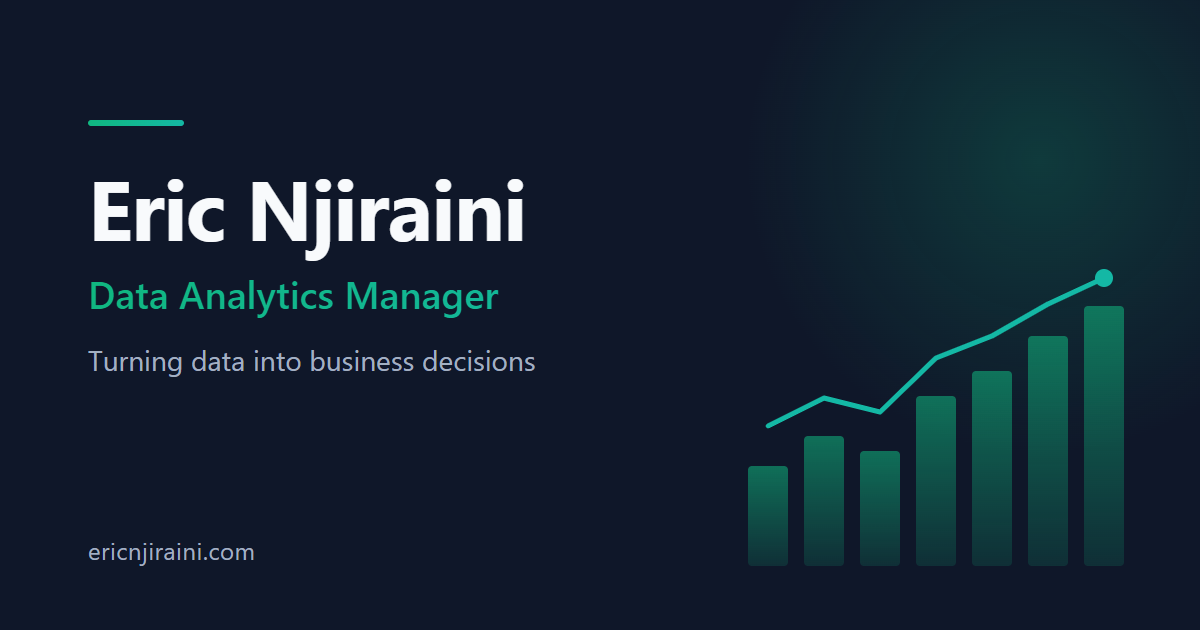
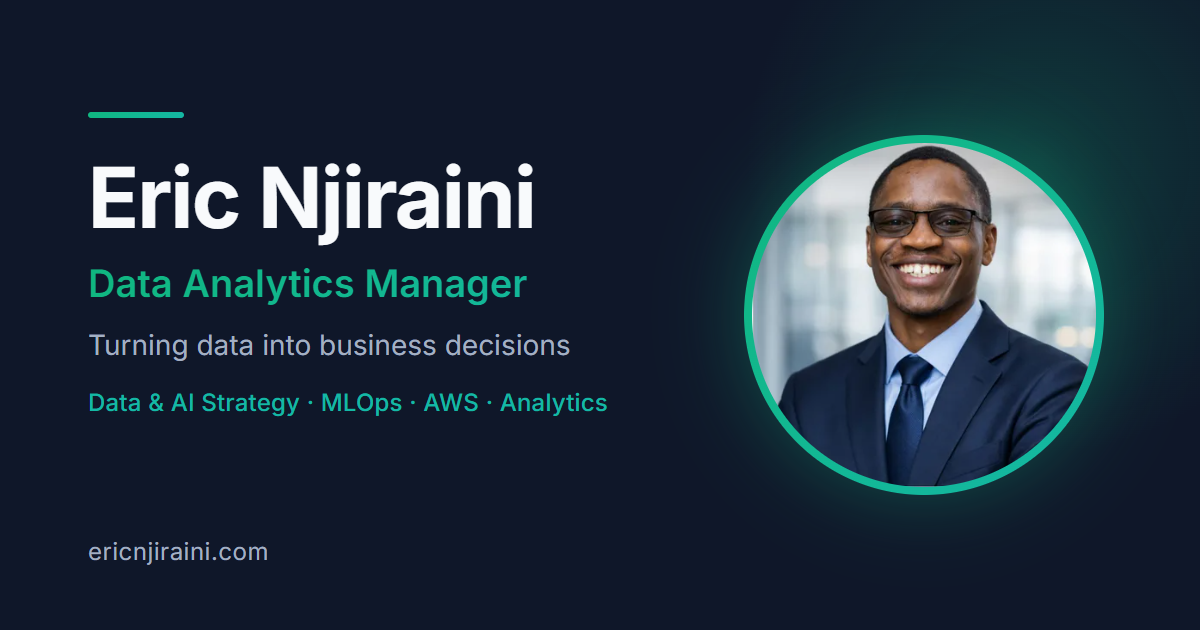
Prerender HTML, add headshot, accessible colours and Inter font
SEO & speed
- Prerender the page to static HTML at build time (entry-server +
  scripts/prerender.mjs) so non-JS crawlers see the content and the
  first screen paints before JavaScript loads; client hydrates it
- Real 404 status for unknown URLs (prerendered 404.html, no catch-all)
- Name in <title>, H1 and social titles; JSON-LD image is the headshot
- Hero background JPG (214KB) -> WebP (38KB)

Look & feel
- Headshot in the hero and in the link-preview image
- Primary emerald darkened to pass WCAG AA (5.0:1 on white)
- Self-hosted Inter variable font (CSP blocks external font hosts)
- Static "Hire Me" button; remove scroll arrow that overlapped socials
- Restyle the 404 page

diff --git a/src/components/Hero.tsx b/src/components/Hero.tsx
@@ -1,6 +1,6 @@
-import { ArrowDown, Download, Github, Linkedin, Mail, MapPin } from 'lucide-react';
+import { Download, Github, Linkedin, Mail } from 'lucide-react';
 import { Button } from '@/components/ui/button';
-import heroImage from '@/assets/hero-bg.jpg';
+import heroImage from '@/assets/hero-bg.webp';
 import { profile, scrollToSection } from '@/lib/profile';
 
 // Capabilities only; individual tools live in the Skills section.
@@ -17,25 +17,30 @@ const Hero = () => {
       />
       <div className="absolute inset-0 bg-gradient-primary opacity-5" />
 
-      <div className="relative z-10 container mx-auto px-5 sm:px-6 pt-24 pb-16 md:pt-28 text-center">
+      <div className="relative z-10 container mx-auto px-5 sm:px-6 pt-20 sm:pt-24 pb-16 md:pt-28 text-center">
         <div className="animate-fade-in max-w-4xl mx-auto">
 
-          {/* Name + location */}
-          <p className="inline-flex flex-wrap items-center justify-center gap-x-2 gap-y-1 text-sm sm:text-base font-medium text-foreground/80 mb-4">
-            <span className="font-semibold text-foreground">{profile.name}</span>
-            <span aria-hidden="true" className="text-primary">•</span>
-            <span className="inline-flex items-center gap-1">
-              <MapPin className="w-4 h-4 text-primary" aria-hidden="true" />
-              {profile.location}
-            </span>
-          </p>
+          {/* Headshot (also referenced by the JSON-LD in index.html) */}
+          <img
+            src="/eric-njiraini.webp"
+            alt={profile.name}
+            width={400}
+            height={400}
+            className="mx-auto mb-5 h-28 w-28 sm:h-36 sm:w-36 rounded-full object-cover ring-4 ring-primary/20 shadow-elegant"
+          />
 
-          {/* SEO PRIMARY H1 */}
-          <h1 className="text-4xl sm:text-6xl md:text-7xl font-bold mb-5 bg-gradient-primary bg-clip-text text-transparent leading-tight pb-2">
-            Data Analytics Manager
+          {/* SEO PRIMARY H1: name + role */}
+          <h1 className="mb-5">
+            <span className="block text-lg sm:text-2xl font-semibold text-foreground mb-2">
+              {profile.name}
+            </span>
+            <span className="sr-only">, </span>
+            <span className="block text-4xl sm:text-6xl md:text-7xl font-bold bg-gradient-primary bg-clip-text text-transparent leading-tight pb-2">
+              Data Analytics Manager
+            </span>
           </h1>
 
-          {/* Supporting SEO line */}
+          {/* Supporting line */}
           <p className="text-xl sm:text-2xl md:text-3xl font-semibold text-foreground mb-6">
             Turning data into business decisions
           </p>
@@ -54,10 +59,10 @@ const Hero = () => {
 
           {/* Value proposition */}
           <p className="text-base sm:text-lg md:text-xl text-muted-foreground max-w-2xl mx-auto mb-10 leading-relaxed">
-            I lead analytics and drive data and AI strategy at Burn Manufacturing, a clean cookstove
-            maker and carbon developer in 10+ African countries. I set the data strategy that took our
-            platform to AWS, and today I put ML models into production, keep data costs lean, and build
-            the team and dashboards leadership relies on.
+            Based in Nairobi, I lead analytics and drive data and AI strategy at Burn Manufacturing, a
+            clean cookstove maker and carbon developer in 10+ African countries. I set the data strategy
+            that took our platform to AWS, and today I put ML models into production, keep data costs
+            lean, and build the team and dashboards leadership relies on.
           </p>
 
           {/* CTA */}
@@ -103,19 +108,6 @@ const Hero = () => {
             </Button>
           </div>
         </div>
-      </div>
-
-      {/* Scroll Indicator (desktop only; on phones it collides with the content) */}
-      <div className="hidden md:block absolute bottom-8 left-1/2 -translate-x-1/2 animate-bounce">
-        <Button
-          variant="ghost"
-          size="icon"
-          onClick={() => scrollToSection('about')}
-          className="hover:text-primary"
-          aria-label="Scroll to About"
-        >
-          <ArrowDown className="!size-6" />
-        </Button>
       </div>
     </section>
   );

diff --git a/scripts/og-image.html b/scripts/og-image.html
@@ -7,6 +7,7 @@
 <html lang="en">
 <head>
 <meta charset="utf-8" />
+<link rel="stylesheet" href="../node_modules/@fontsource-variable/inter/index.css" />
 <style>
   :root {
     --bg: hsl(222 47% 11%);
@@ -20,22 +21,28 @@
   body {
     background: var(--bg);
     color: var(--fg);
-    font-family: "Segoe UI", system-ui, -apple-system, sans-serif;
+    font-family: "Inter Variable", "Segoe UI", system-ui, sans-serif;
     position: relative;
   }
   .glow {
     position: absolute; right: -160px; top: -160px; width: 640px; height: 640px;
     border-radius: 50%; background: radial-gradient(circle, hsl(160 84% 39% / 0.22), transparent 65%);
   }
-  .content { position: absolute; left: 88px; top: 120px; width: 640px; }
+  .content { position: absolute; left: 88px; top: 112px; width: 640px; }
   .rule { width: 96px; height: 6px; border-radius: 3px; background: linear-gradient(135deg, var(--primary), var(--primary-glow)); margin-bottom: 36px; }
   h1 { font-size: 84px; font-weight: 700; letter-spacing: -1.5px; line-height: 1.05; }
   .role { font-size: 38px; font-weight: 600; margin-top: 18px;
     background: linear-gradient(135deg, var(--primary), var(--primary-glow));
     -webkit-background-clip: text; background-clip: text; color: transparent; }
   .tagline { font-size: 28px; color: var(--muted); margin-top: 22px; }
+  .focus { font-size: 24px; font-weight: 500; color: var(--primary-glow); margin-top: 26px; letter-spacing: 0.2px; }
   .domain { position: absolute; left: 88px; bottom: 64px; font-size: 24px; color: var(--muted); letter-spacing: 0.5px; }
-  svg { position: absolute; right: 72px; bottom: 64px; }
+  .photo {
+    position: absolute; right: 96px; top: 135px; width: 360px; height: 360px; border-radius: 50%;
+    padding: 8px; background: linear-gradient(135deg, var(--primary), var(--primary-glow));
+    box-shadow: 0 0 80px hsl(160 84% 39% / 0.35);
+  }
+  .photo img { width: 100%; height: 100%; border-radius: 50%; object-fit: cover; display: block; }
 </style>
 </head>
 <body>
@@ -45,28 +52,9 @@
     <h1>Eric Njiraini</h1>
     <div class="role">Data Analytics Manager</div>
     <div class="tagline">Turning data into business decisions</div>
+    <div class="focus">Data &amp; AI Strategy · MLOps · AWS · Analytics</div>
   </div>
   <div class="domain">ericnjiraini.com</div>
-
-  <svg width="380" height="300" viewBox="0 0 380 300" aria-hidden="true">
-    <defs>
-      <linearGradient id="bar" x1="0" y1="1" x2="0" y2="0">
-        <stop offset="0%" stop-color="hsl(160 84% 39%)" stop-opacity="0.15" />
-        <stop offset="100%" stop-color="hsl(160 84% 39%)" stop-opacity="0.55" />
-      </linearGradient>
-    </defs>
-    <g fill="url(#bar)">
-      <rect x="0"   y="200" width="40" height="100" rx="4" />
-      <rect x="56"  y="170" width="40" height="130" rx="4" />
-      <rect x="112" y="185" width="40" height="115" rx="4" />
-      <rect x="168" y="130" width="40" height="170" rx="4" />
-      <rect x="224" y="105" width="40" height="195" rx="4" />
-      <rect x="280" y="70"  width="40" height="230" rx="4" />
-      <rect x="336" y="40"  width="40" height="260" rx="4" />
-    </g>
-    <polyline points="20,160 76,132 132,146 188,92 244,70 300,38 356,12"
-      fill="none" stroke="hsl(173 80% 40%)" stroke-width="5" stroke-linecap="round" stroke-linejoin="round" />
-    <circle cx="356" cy="12" r="9" fill="hsl(173 80% 40%)" />
-  </svg>
+  <div class="photo"><img src="../public/eric-njiraini.webp" alt="" /></div>
 </body>
 </html>

diff --git a/index.html b/index.html
@@ -6,7 +6,8 @@
     <link rel="icon" href="/EN_favicon_initials.ico" />
     <meta name="viewport" content="width=device-width, initial-scale=1.0, viewport-fit=cover" />
     <meta name="theme-color" content="#f8fafc" />
-    <title>Data Analytics Manager | Data & AI Strategy, MLOps, AWS & Power BI</title>
+    <link rel="preload" as="image" href="/eric-njiraini.webp" />
+    <title>Eric Njiraini — Data Analytics Manager | Data &amp; AI Strategy, MLOps, AWS</title>
     <meta name="description" content="Data Analytics Manager in Nairobi: data and AI strategy, MLOps, AWS cloud migration, cost optimisation, and the dashboards and teams that drive decisions." />
     <meta name="author" content="Eric Njiraini" />
     
@@ -19,7 +20,7 @@
 
     <link rel="canonical" href="https://ericnjiraini.com/" />
 
-    <meta property="og:title" content="Eric Njiraini Portfolio" />
+    <meta property="og:title" content="Eric Njiraini — Data Analytics Manager" />
     <meta property="og:description" content="Data &amp; AI strategy, MLOps, AWS cloud migration and executive analytics: projects and case studies by Eric Njiraini." />
     <meta property="og:type" content="website" />
     <meta property="og:url" content="https://ericnjiraini.com/" />
@@ -29,7 +30,7 @@
     <meta property="og:image:alt" content="Eric Njiraini — Data Analytics Manager" />
 
     <meta name="twitter:card" content="summary_large_image" />
-    <meta name="twitter:title" content="Eric Njiraini Portfolio" />
+    <meta name="twitter:title" content="Eric Njiraini — Data Analytics Manager" />
     <meta name="twitter:description" content="Data &amp; AI strategy, MLOps, AWS cloud migration and executive analytics: projects and case studies by Eric Njiraini." />
     <meta name="twitter:image" content="https://ericnjiraini.com/og-image.png" />
 
@@ -39,7 +40,7 @@
         "@type": "Person",
         "name": "Eric Njiraini",
         "url": "https://ericnjiraini.com/",
-        "image": "https://ericnjiraini.com/og-image.png",
+        "image": "https://ericnjiraini.com/eric-njiraini.webp",
         "sameAs": [
           "https://www.linkedin.com/in/eric-njiraini/",
           "https://github.com/EricNjiraini"

diff --git a/src/components/About.tsx b/src/components/About.tsx
@@ -2,7 +2,7 @@ import { motion, useScroll, useTransform, type Variants } from "framer-motion";
 import { Sparkles, Cpu, CloudUpload, PiggyBank, Users, LayoutDashboard } from 'lucide-react';
 import { Card, CardContent } from '@/components/ui/card';
 import CountUp from 'react-countup';
-import { useRef } from "react";
+import { useEffect, useRef, useState } from "react";
 
 const containerVariants: Variants = {
   hidden: { opacity: 0 },
@@ -80,6 +80,11 @@ const About = () => {
   });
 
   const backgroundY = useTransform(scrollYProgress, [0, 1], ["0%", "20%"]);
+
+  // The prerendered HTML shows the real figures (so crawlers don't read "0");
+  // the count-up animation only takes over once the page is running in a browser.
+  const [mounted, setMounted] = useState(false);
+  useEffect(() => setMounted(true), []);
 
   return (
     <section ref={sectionRef} id="about" className="py-16 md:py-24 bg-background relative overflow-hidden">
@@ -203,7 +208,11 @@ const About = () => {
               <dt className="text-muted-foreground text-xs sm:text-sm leading-snug">{stat.label}</dt>
               <dd className="text-3xl sm:text-4xl font-bold text-primary mb-1">
                 {stat.prefix}
-                <CountUp end={stat.value} duration={2.5} enableScrollSpy scrollSpyOnce />
+                {mounted ? (
+                  <CountUp end={stat.value} duration={2.5} enableScrollSpy scrollSpyOnce />
+                ) : (
+                  stat.value
+                )}
                 {stat.suffix}
               </dd>
             </motion.div>

diff --git a/src/pages/NotFound.tsx b/src/pages/NotFound.tsx
@@ -1,5 +1,6 @@
 import { useLocation } from "react-router-dom";
 import { useEffect } from "react";
+import { Button } from "@/components/ui/button";
 
 const NotFound = () => {
   const location = useLocation();
@@ -12,15 +13,16 @@ const NotFound = () => {
   }, [location.pathname]);
 
   return (
-    <div className="min-h-screen flex items-center justify-center bg-gray-100">
+    <main className="min-h-screen flex items-center justify-center bg-gradient-subtle px-5">
       <div className="text-center">
-        <h1 className="text-4xl font-bold mb-4">404</h1>
-        <p className="text-xl text-gray-600 mb-4">Oops! Page not found</p>
-        <a href="/" className="text-blue-500 hover:text-blue-700 underline">
-          Return to Home
-        </a>
+        <p className="text-6xl font-bold bg-gradient-primary bg-clip-text text-transparent mb-4">404</p>
+        <h1 className="text-2xl font-semibold text-foreground mb-2">Page not found</h1>
+        <p className="text-muted-foreground mb-8">The page you're looking for doesn't exist or has moved.</p>
+        <Button asChild size="lg">
+          <a href="/">Back to ericnjiraini.com</a>
+        </Button>
       </div>
-    </div>
+    </main>
   );
 };
 

diff --git a/src/index.css b/src/index.css
@@ -17,10 +17,11 @@ All colors MUST be HSL.
   --popover: 220 35% 16%;
   --popover-foreground: 210 40% 98%;
 
-  --primary: 160 84% 39%;
+  /* Deep emerald: 5.0:1 against white, so it passes WCAG AA for text and button labels. */
+  --primary: 160 84% 27%;
   --primary-foreground: 0 0% 100%;
 
-  --primary-glow: 173 80% 40%;
+  --primary-glow: 173 80% 27%;
 
   --secondary: 210 40% 96%;
   --secondary-foreground: 222 47% 11%;
@@ -46,7 +47,7 @@ All colors MUST be HSL.
 
   --border: 214 32% 91%;
   --input: 217 20% 24%;
-  --ring: 160 84% 39%;
+  --ring: 160 84% 27%;
 
   --radius: 0.75rem; 
   }
@@ -58,7 +59,7 @@ All colors MUST be HSL.
   --card: 0 0% 100%;
   --card-foreground: 222 47% 11%;
   
-  --primary: 160 84% 39%;
+  --primary: 160 84% 27%;
   --primary-foreground: 0 0% 100%;
   
   --accent: 198 93% 60%;

diff --git a/src/App.tsx b/src/App.tsx
@@ -2,13 +2,18 @@ import { BrowserRouter, Routes, Route } from "react-router-dom";
 import Index from "./pages/Index";
 import NotFound from "./pages/NotFound";
 
+// Shared by the browser (BrowserRouter) and the build-time prerender (StaticRouter).
+export const AppRoutes = () => (
+  <Routes>
+    <Route path="/" element={<Index />} />
+    {/* Add any additional routes here */}
+    <Route path="*" element={<NotFound />} />
+  </Routes>
+);
+
 const App = () => (
   <BrowserRouter>
-    <Routes>
-      <Route path="/" element={<Index />} />
-      {/* Add any additional routes here */}
-      <Route path="*" element={<NotFound />} />
-    </Routes>
+    <AppRoutes />
   </BrowserRouter>
 );
 

diff --git a/src/components/Footer.tsx b/src/components/Footer.tsx
@@ -6,7 +6,8 @@ const Footer = () => {
   return (
     <footer className="border-t border-border bg-background">
       <div className="container mx-auto px-5 sm:px-6 py-8 flex flex-col-reverse sm:flex-row items-center justify-between gap-4">
-        <p className="text-sm text-muted-foreground text-center sm:text-left">
+        {/* suppressHydrationWarning: the prerendered year can lag the visitor's clock at New Year */}
+        <p className="text-sm text-muted-foreground text-center sm:text-left" suppressHydrationWarning>
           © {new Date().getFullYear()} {profile.name}
           <span className="hidden sm:inline"> · {profile.role}</span> · {profile.location}
         </p>

diff --git a/src/components/Header.tsx b/src/components/Header.tsx
@@ -84,12 +84,8 @@ const Header = () => {
               Download CV
             </a>
 
-            {/* Animated Hire Me Button */}
-            <Button
-              className="ml-2 animate-pulse hover:animate-none transition-all duration-500"
-              style={{ animationDuration: '2.5s' }}
-              onClick={() => goTo('contact')}
-            >
+            {/* Hire Me Button */}
+            <Button className="ml-2" onClick={() => goTo('contact')}>
               Hire Me
             </Button>
           </div>

diff --git a/src/main.tsx b/src/main.tsx
@@ -1,5 +1,13 @@
-import { createRoot } from 'react-dom/client'
+import { createRoot, hydrateRoot } from 'react-dom/client'
+import '@fontsource-variable/inter'
 import App from './App.tsx'
 import './index.css'
 
-createRoot(document.getElementById("root")!).render(<App />);
+const root = document.getElementById("root")!;
+
+// Production pages are prerendered (scripts/prerender.mjs), so hydrate them; dev starts empty.
+if (root.hasChildNodes()) {
+  hydrateRoot(root, <App />);
+} else {
+  createRoot(root).render(<App />);
+}

diff --git a/src/entry-server.tsx b/src/entry-server.tsx
@@ -1,0 +1,13 @@
+// Build-time renderer used by scripts/prerender.mjs to write real HTML into dist/,
+// so crawlers that don't run JavaScript (Bing, LinkedIn, AI search) still see the content.
+import { renderToString } from 'react-dom/server';
+import { StaticRouter } from 'react-router-dom/server';
+import { AppRoutes } from './App';
+
+export function render(url: string) {
+  return renderToString(
+    <StaticRouter location={url}>
+      <AppRoutes />
+    </StaticRouter>
+  );
+}

diff --git a/tailwind.config.ts b/tailwind.config.ts
@@ -18,6 +18,10 @@ export default {
 			}
 		},
 		extend: {
+			fontFamily: {
+				// Self-hosted via @fontsource-variable/inter (the CSP blocks external font hosts)
+				sans: ['"Inter Variable"', 'ui-sans-serif', 'system-ui', '-apple-system', '"Segoe UI"', 'Roboto', 'sans-serif'],
+			},
 			colors: {
 				border: 'hsl(var(--border))',
 				input: 'hsl(var(--input))',
